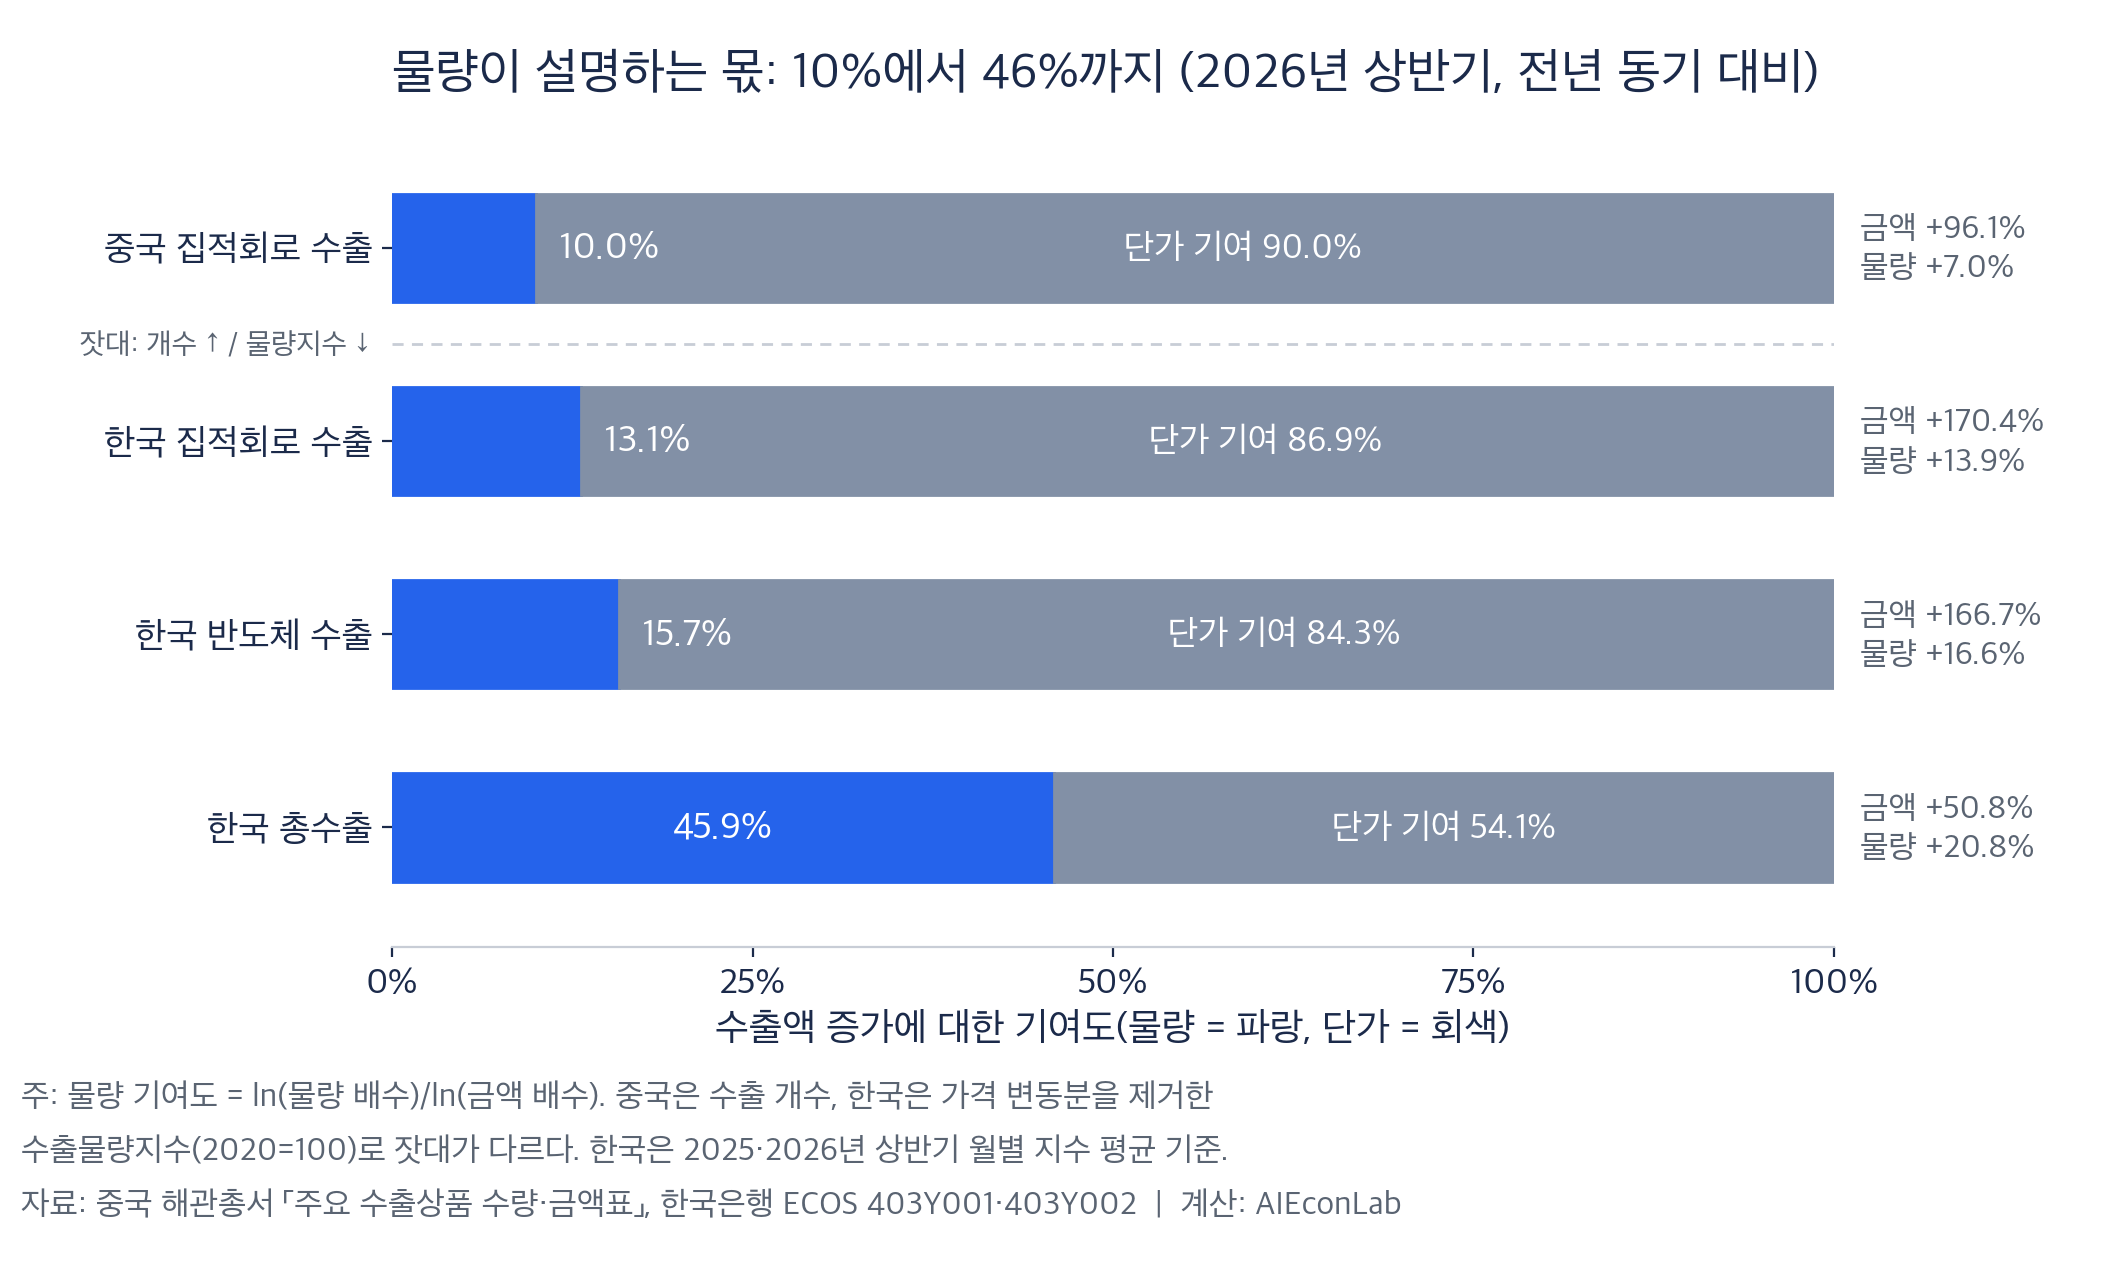
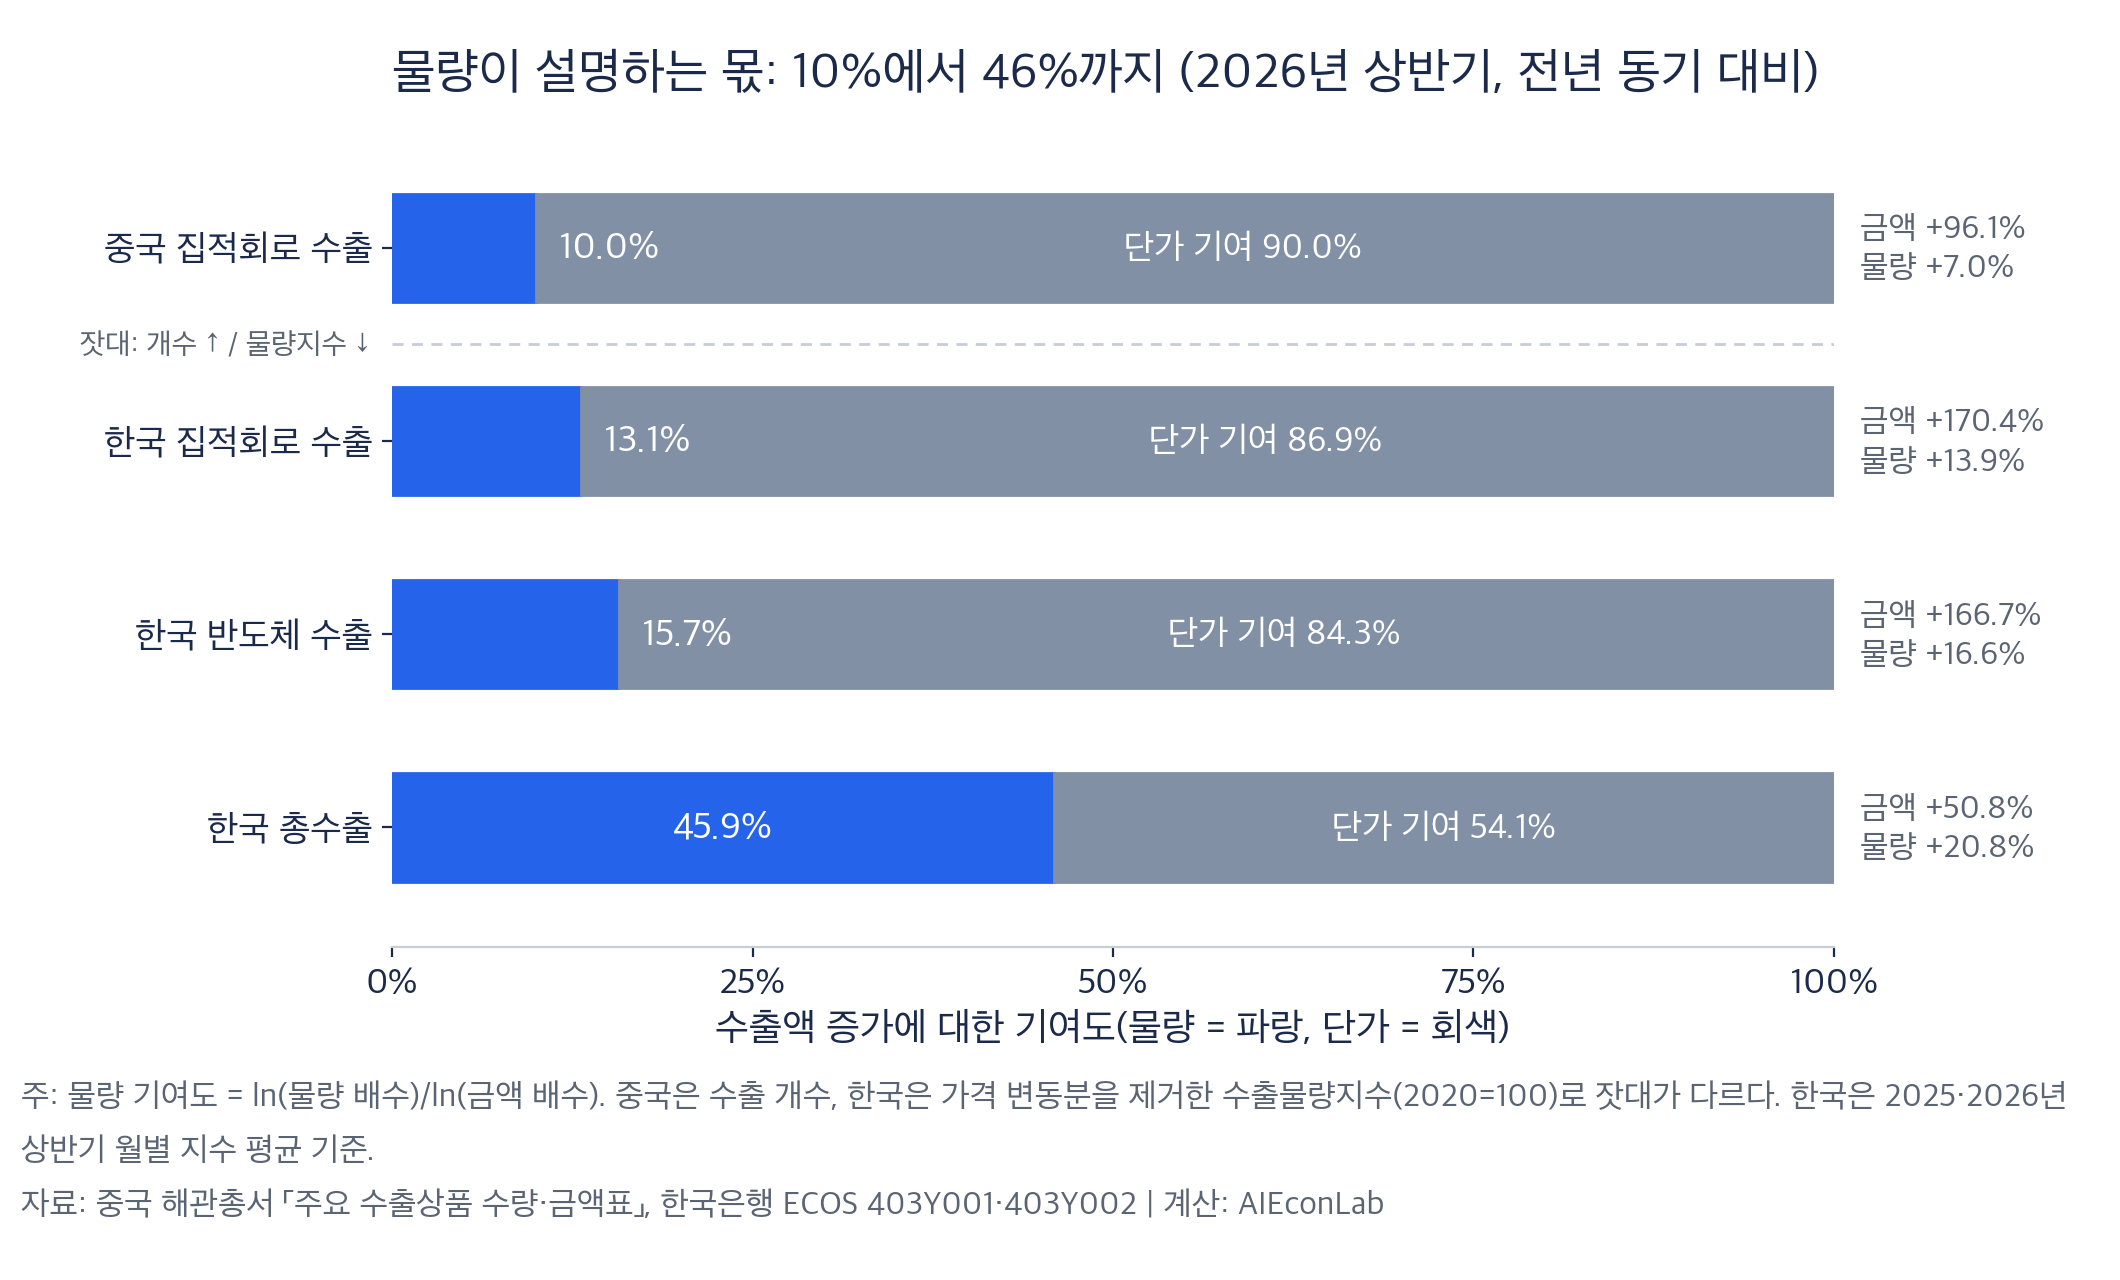
fix(trend15): 그림 '주' 주석을 그림 폭에 맞춰 자동 줄바꿈으로 재생성
- fig01·fig02: '주' 문단을 그리디 줄바꿈으로 그림 폭(99%)에 맞춰 채움.
  중간 줄 채움률 88% 이상 assert, 필수 문구('잣대가 다르다') 보존 assert 추가
- README 게시본 SHA-256 2건 갱신

Changed region(s): [[0.0, 0.875, 0.6538, 0.9688], [0.5915, 0.8438, 0.9651, 0.875]]

diff --git a/docs/03-analysis/china-chip-exports/scripts/fig02_price_volume_contribution.py b/docs/03-analysis/china-chip-exports/scripts/fig02_price_volume_contribution.py
@@ -102,25 +102,57 @@ def main():
                  loc="left", fontsize=18, fontweight="bold", color=NAVY, pad=14)
 
     fig.subplots_adjust(left=0.185, right=0.865, top=0.9, bottom=0.26)
-    # 주석은 이미지 왼쪽 끝(x=0.01)에서 시작해, 본문에 삽입됐을 때 글의 왼쪽 선과 맞도록 한다
-    note1 = fig.text(0.01, 0.135, "주: 물량 기여도 = ln(물량 배수)/ln(금액 배수). 중국은 수출 개수, 한국은 가격 변동분을 제거한",
-                     fontsize=11.8, color=NOTE)
-    note2 = fig.text(0.01, 0.093, "수출물량지수(2020=100)로 잣대가 다르다. 한국은 2025·2026년 상반기 월별 지수 평균 기준.",
-                     fontsize=11.8, color=NOTE)
-    note3 = fig.text(0.01, 0.051, "자료: 중국 해관총서 「주요 수출상품 수량·금액표」, 한국은행 ECOS 403Y001·403Y002  |  계산: AIEconLab",
-                     fontsize=11.8, color=NOTE)
+    # 주석은 이미지 왼쪽 끝(x=0.01)에서 시작하고, '주' 문단은 그림 폭에 맞춰
+    # 그리디 줄바꿈으로 채운다(마지막 줄을 제외한 각 줄이 폭의 88% 이상이어야 통과)
+    NOTE_PARAS = [
+        "주: 물량 기여도 = ln(물량 배수)/ln(금액 배수). 중국은 수출 개수, 한국은 가격 변동분을 제거한 "
+        "수출물량지수(2020=100)로 잣대가 다르다. 한국은 2025·2026년 상반기 월별 지수 평균 기준.",
+        "자료: 중국 해관총서 「주요 수출상품 수량·금액표」, 한국은행 ECOS 403Y001·403Y002  |  계산: AIEconLab",
+    ]
+    NOTE_X, NOTE_FS = 0.01, 11.8
+    rend0 = fig.canvas.get_renderer()
+    fig_w0 = fig.canvas.get_width_height()[0]
+    limit = fig_w0 * (0.99 - NOTE_X)
+
+    def measure(s):
+        t = fig.text(0, -1, s, fontsize=NOTE_FS)
+        w = t.get_window_extent(renderer=rend0).width
+        t.remove()
+        return w
+
+    wrapped = []  # (para_index, line)
+    for pi, para in enumerate(NOTE_PARAS):
+        cur = ""
+        for word in para.split(" "):
+            trial = (cur + " " + word).strip()
+            if measure(trial) <= limit or not cur:
+                cur = trial
+            else:
+                wrapped.append((pi, cur))
+                cur = word
+        wrapped.append((pi, cur))
+    assert len(wrapped) == 3, ("주석 줄 수 변경 — y 좌표 재설계 필요", len(wrapped))
+    ys = [0.135, 0.093, 0.051]
+    notes = [fig.text(NOTE_X, y, ln, fontsize=NOTE_FS, color=NOTE)
+             for (pi, ln), y in zip(wrapped, ys)]
+    # 문단 중간 줄(다음 줄이 같은 문단)은 폭을 충분히 채워야 한다
+    for i, (pi, ln) in enumerate(wrapped[:-1]):
+        if wrapped[i + 1][0] == pi:
+            assert measure(ln) >= 0.88 * limit, ("주석 줄 채움 부족", ln[:20])
+    # 필수 문구('잣대가 다르다')가 줄바꿈 과정에서 사라지지 않았는지
+    assert any("잣대가 다르다" in ln for _pi, ln in wrapped)
 
     # 렌더링 후 텍스트 충돌·잘림 검사
     fig.canvas.draw()
     rend = fig.canvas.get_renderer()
     bb = lambda t: t.get_window_extent(renderer=rend)
     fig_w = fig.canvas.get_width_height()[0]
-    for t in (note1, note2, note3):
+    for t in notes:
         assert bb(t).x1 <= fig_w - 5, ("주석 우측 잘림", t.get_text()[:16])
     for t in right_notes:
         assert bb(t).x1 <= fig_w - 3, ("우측 병기 잘림", t.get_text()[:12])
-    gap12 = bb(note1).y0 - bb(note2).y1
-    gap23 = bb(note2).y0 - bb(note3).y1
+    gap12 = bb(notes[0]).y0 - bb(notes[1]).y1
+    gap23 = bb(notes[1]).y0 - bb(notes[2]).y1
     assert gap12 >= 2 and gap23 >= 2, ("주석 줄간 겹침", round(gap12, 1), round(gap23, 1))
     # 막대 안 라벨끼리 겹침 검사
     inbar = [t for t in ax.texts if t not in right_notes and t is not sep_note]

diff --git a/docs/03-analysis/china-chip-exports/scripts/fig01_value_vs_volume.py b/docs/03-analysis/china-chip-exports/scripts/fig01_value_vs_volume.py
@@ -89,23 +89,53 @@ def main():
                  loc="left", fontsize=18.5, fontweight="bold", color=NAVY, pad=16)
 
     fig.subplots_adjust(left=0.095, right=0.97, top=0.905, bottom=0.225)
-    # 주석은 이미지 왼쪽 끝(x=0.01)에서 시작해, 본문에 삽입됐을 때 글의 왼쪽 선과 맞도록 한다
-    note1 = fig.text(0.01, 0.112, "주: 각 시점의 연초 누계 전년 동기 대비 증가율(해관총서 공표치). 수량 단위는 개수(억 개)이며",
-                     fontsize=11.8, color=NOTE)
-    note2 = fig.text(0.01, 0.070, "제품 구성 변화를 통제하지 못한다. 6월 단월의 수량 증가율은 -0.4%(누계 차분).",
-                     fontsize=11.8, color=NOTE)
-    note3 = fig.text(0.01, 0.028, "자료: 중국 해관총서 「주요 수출상품 수량·금액표」 2~6월판(달러 기준)  |  계산: AIEconLab",
-                     fontsize=11.8, color=NOTE)
+    # 주석은 이미지 왼쪽 끝(x=0.01)에서 시작하고, '주' 문단은 그림 폭에 맞춰
+    # 그리디 줄바꿈으로 채운다(마지막 줄을 제외한 각 줄이 폭의 88% 이상이어야 통과)
+    NOTE_PARAS = [
+        "주: 각 시점의 연초 누계 전년 동기 대비 증가율(해관총서 공표치). 수량 단위는 개수(억 개)이며 "
+        "제품 구성 변화를 통제하지 못한다. 6월 단월의 수량 증가율은 -0.4%(누계 차분).",
+        "자료: 중국 해관총서 「주요 수출상품 수량·금액표」 2~6월판(달러 기준)  |  계산: AIEconLab",
+    ]
+    NOTE_X, NOTE_FS = 0.01, 11.8
+    rend0 = fig.canvas.get_renderer()
+    fig_w0 = fig.canvas.get_width_height()[0]
+    limit = fig_w0 * (0.99 - NOTE_X)
+
+    def measure(s):
+        t = fig.text(0, -1, s, fontsize=NOTE_FS)
+        w = t.get_window_extent(renderer=rend0).width
+        t.remove()
+        return w
+
+    wrapped = []  # (para_index, line)
+    for pi, para in enumerate(NOTE_PARAS):
+        cur = ""
+        for word in para.split(" "):
+            trial = (cur + " " + word).strip()
+            if measure(trial) <= limit or not cur:
+                cur = trial
+            else:
+                wrapped.append((pi, cur))
+                cur = word
+        wrapped.append((pi, cur))
+    assert len(wrapped) == 3, ("주석 줄 수 변경 — y 좌표 재설계 필요", len(wrapped))
+    ys = [0.112, 0.070, 0.028]
+    notes = [fig.text(NOTE_X, y, ln, fontsize=NOTE_FS, color=NOTE)
+             for (pi, ln), y in zip(wrapped, ys)]
+    # 문단 중간 줄(다음 줄이 같은 문단)은 폭을 충분히 채워야 한다
+    for i, (pi, ln) in enumerate(wrapped[:-1]):
+        if wrapped[i + 1][0] == pi:
+            assert measure(ln) >= 0.88 * limit, ("주석 줄 채움 부족", ln[:20])
 
     # 렌더링 후 텍스트 충돌·잘림 검사
     fig.canvas.draw()
     rend = fig.canvas.get_renderer()
     bb = lambda t: t.get_window_extent(renderer=rend)
     fig_w = fig.canvas.get_width_height()[0]
-    for t in (note1, note2, note3, series_val, series_vol):
+    for t in notes + [series_val, series_vol]:
         assert bb(t).x1 <= fig_w - 5, ("우측 잘림", t.get_text()[:16])
-    gap12 = bb(note1).y0 - bb(note2).y1
-    gap23 = bb(note2).y0 - bb(note3).y1
+    gap12 = bb(notes[0]).y0 - bb(notes[1]).y1
+    gap23 = bb(notes[1]).y0 - bb(notes[2]).y1
     assert gap12 >= 2 and gap23 >= 2, ("주석 줄간 겹침", round(gap12, 1), round(gap23, 1))
     # 값 라벨끼리 겹침 검사(같은 계열의 이웃 라벨 + 두 계열 간)
     boxes = [bb(t) for t in val_labels]

diff --git a/docs/03-analysis/china-chip-exports/README.md b/docs/03-analysis/china-chip-exports/README.md
@@ -24,9 +24,9 @@
   ```bash
   /opt/anaconda3/bin/python3 -c "from PIL import Image; import sys; a,b=(Image.open(p).convert('RGBA') for p in sys.argv[1:3]); print('pixel-identical:', a.size==b.size and list(a.getdata())==list(b.getdata()))" scripts/out/fig01_value_vs_volume.png ../../../static/images/post/trend15/fig01_value_vs_volume.png
   ```
-- 게시본 SHA-256 (out/과 게시 경로 동일 확인, 2026-07-26 — fig01·fig02는 주석 위치를 이미지 왼쪽 끝으로 옮긴 재생성본으로 갱신):
[2 lines of base64/hex data omitted]
+- 게시본 SHA-256 (out/과 게시 경로 동일 확인, 2026-07-26 — fig01·fig02는 주석을 이미지 왼쪽 끝 정렬 + 그림 폭 채움 줄바꿈으로 재생성해 갱신):
[3 lines of base64/hex data omitted]
 - 출력 → 게시 경로 복사:
   - `scripts/out/fig01_value_vs_volume.png` → `static/images/post/trend15/`
